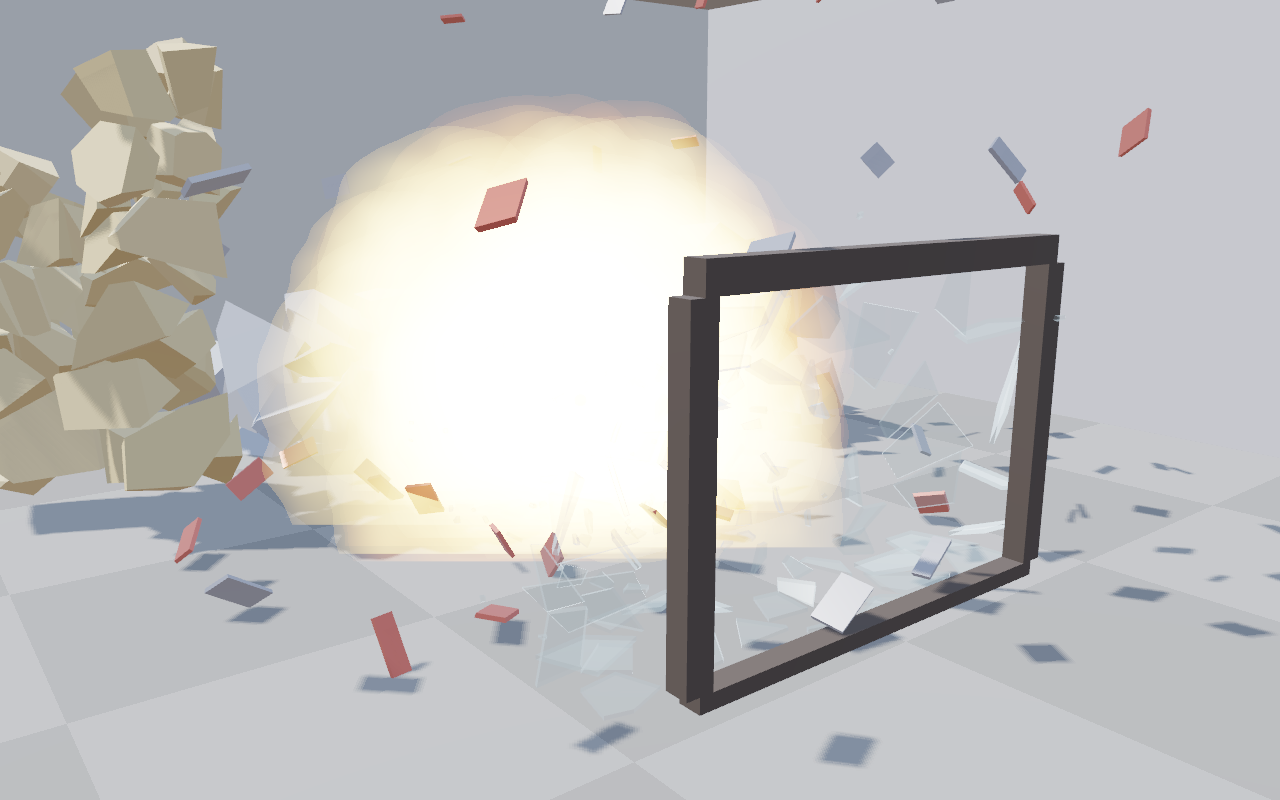
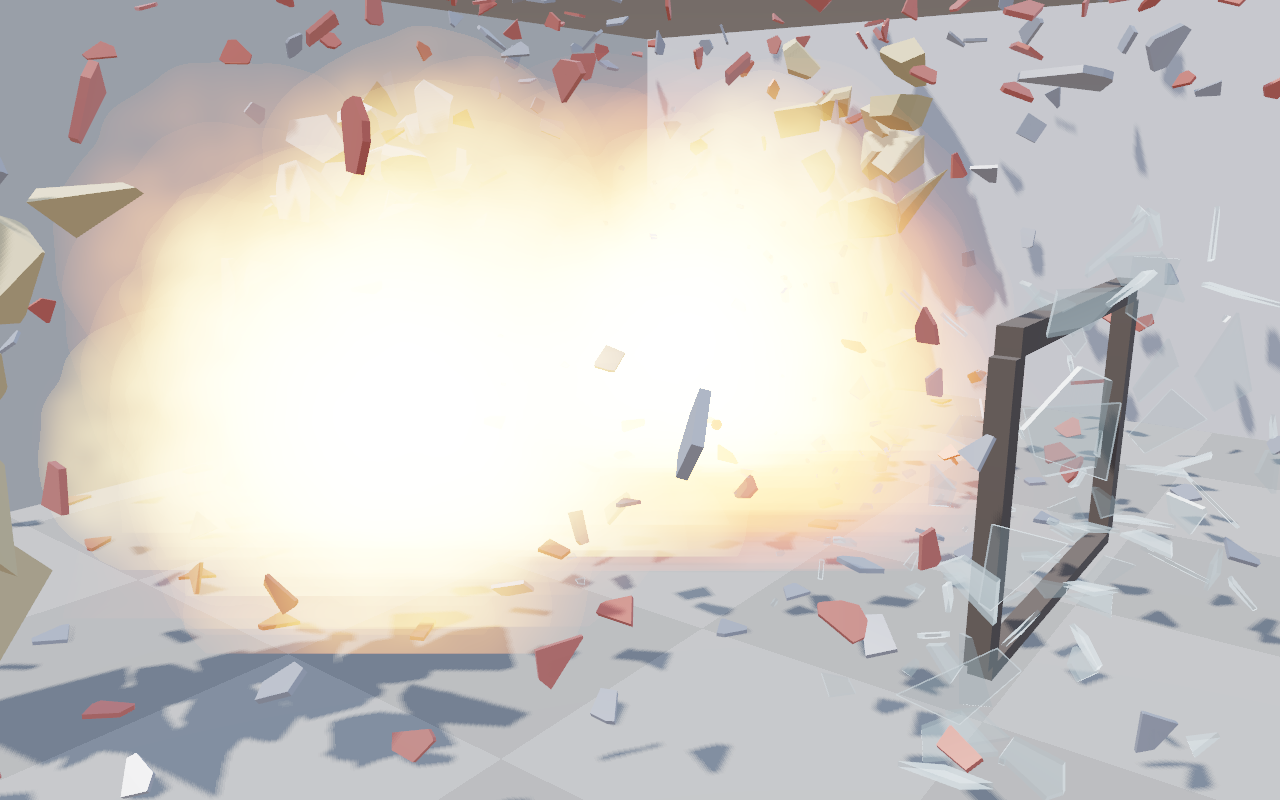
bulletbarrel: 3-barrel chain reaction, Voronoi shell shards, camera fix
Refine the bullet -> barrel demo: three hollow explosive barrels with a
staggered fuse-based chain explosion instead of one. The barrel walls now
shatter into irregular Voronoi-style metal shards (cylinderShellVoronoi in
shellfrac.h, built as flat tangent-plane prisms for robust mass properties)
at ~2x the piece count.

Also fix the orbiting camera flying through the +x room wall right before
the barrel hit: the eye started just outside that wall slab and the orbit
swept it down through it, filling the view with grey. Reversed the orbit so
it pans away from the wall instead of into it.

Covered by the explosion suite (Voronoi shell tiles the wall with valid
mass props and varied shard shapes).

Claude-Session: https://claude.ai/code/session_013xizM315Qa6aUuQZdRZxED

diff --git a/demos/bulletbarrel3d.cpp b/demos/bulletbarrel3d.cpp
@@ -36,7 +36,8 @@ static gfx::Mesh makeCylinder(int seg = 34) {
 }
 
 struct Frag { std::unique_ptr<RigidBody> body; std::unique_ptr<CollisionConvex> hull; gfx::Mesh mesh; float rad; glm::vec3 colour;
-              int kind; bool active = false, locked = false; int pcalm = 0; };   // kind: 0 glass, 1 object, 2 barrel
+              int kind; int barrelId = -1; bool active = false, locked = false; int pcalm = 0; };   // kind: 0 glass, 1 object, 2 barrel
+struct Barrel { glm::vec3 c; bool exploded = false; double fuseT = -1; };        // fuseT: scheduled chain-explosion time
 
 struct Collider : ContactGenerator {
     std::vector<Frag>* fr; const CollisionPlane* walls; int nWalls; real fri, res;
@@ -117,28 +118,33 @@ int main(int argc, char** argv) {
             frags.push_back(std::move(f)); cells.push_back(std::move(cell));
         }
     };
-    // barrel (kind 2) + surrounding objects (kind 1)
-    const glm::vec3 barrelC(0.1f, 0.7f, 1.4f); const float barrelR = 0.42f, barrelHh = 0.7f;
-    {   // hollow barrel: its thin wall + end caps dice into small curved metal shards
-        unsigned bs = 55u; auto br = [&]() { bs = bs * 1103515245u + 12345u; return (float)(((bs >> 16) & 0x7fff) / 32767.0); };
-        for (auto& cell : cylinderShellFracture(barrelR, barrelHh, 0.03, 15, 5, true, 55u)) {
-            Frag f; f.kind = 2; f.rad = 0; for (auto& v : cell.verts) f.rad = std::max(f.rad, (float)v.magnitude());
+    // three hollow explosive barrels (kind 2) — each wall dices into small metal shards
+    const float barrelR = 0.42f, barrelHh = 0.7f; std::vector<Barrel> barrels;
+    auto addBarrel = [&](glm::vec3 c, unsigned seed) {
+        int bid = (int)barrels.size(); barrels.push_back({c, false, -1});
+        unsigned bs = seed; auto br = [&]() { bs = bs * 1103515245u + 12345u; return (float)(((bs >> 16) & 0x7fff) / 32767.0); };
+        for (auto& cell : cylinderShellVoronoi(barrelR, barrelHh, 0.03, 18, 6, seed)) {   // irregular Voronoi-style metal shards (~2× finer)
+            Frag f; f.kind = 2; f.barrelId = bid; f.rad = 0; for (auto& v : cell.verts) f.rad = std::max(f.rad, (float)v.magnitude());
             f.body = std::make_unique<RigidBody>(); f.body->setMass(std::max(1e-3, cell.volume * 5.0));
             Matrix3 I; for (int k = 0; k < 9; k++) I.data[k] = cell.inertiaUnit.data[k] * 5.0; for (int k : {0, 4, 8}) I.data[k] = std::max(I.data[k], (real)1e-6); f.body->setInertiaTensor(I);
-            f.body->setPosition(Vector3(barrelC.x + cell.site.x, barrelC.y + cell.site.y, barrelC.z + cell.site.z));
+            f.body->setPosition(Vector3(c.x + cell.site.x, c.y + cell.site.y, c.z + cell.site.z));
             f.body->setAcceleration(0, -9.81, 0); f.body->setDamping(0.55, 0.5); f.body->calculateDerivedData(); f.body->setAwake(false);
             f.hull = std::make_unique<CollisionConvex>(); f.hull->body = f.body.get(); f.hull->vertices = cell.verts;
-            f.colour = (br() < 0.55f) ? glm::vec3(0.50, 0.17, 0.14) + glm::vec3((br() - 0.5f) * 0.06f)    // red paint
-                                      : glm::vec3(0.34, 0.34, 0.37) + glm::vec3((br() - 0.5f) * 0.05f);   // bare torn metal
+            f.colour = (br() < 0.55f) ? glm::vec3(0.50, 0.17, 0.14) + glm::vec3((br() - 0.5f) * 0.06f)
+                                      : glm::vec3(0.34, 0.34, 0.37) + glm::vec3((br() - 0.5f) * 0.05f);
             frags.push_back(std::move(f)); cells.push_back(std::move(cell));
         }
-    }
+    };
+    addBarrel(glm::vec3(0.1f, 0.7f, 1.4f), 55u);        // the bullet's target
+    addBarrel(glm::vec3(-1.95f, 0.7f, 2.9f), 61u);
+    addBarrel(glm::vec3(2.05f, 0.7f, 3.0f), 67u);
+    // surrounding objects (kind 1), clear of the barrels
     glm::vec3 grey(0.52, 0.51, 0.49), sand(0.60, 0.49, 0.31), slate(0.42, 0.43, 0.47);
-    addChunks(Vector3(-1.9, 0.6, 2.1),  Vector3(0.60, 0.60, 0.60), 26, 2.4, grey, 1, 13u);
-    addChunks(Vector3(1.9, 1.15, 2.4),  Vector3(0.36, 1.15, 0.36), 22, 2.2, sand, 1, 21u);
-    addChunks(Vector3(-1.3, 0.55, 3.5), Vector3(0.55, 0.55, 0.55), 22, 2.3, grey, 1, 29u);
-    addChunks(Vector3(0.5, 0.4, 3.7),   Vector3(1.00, 0.40, 0.65), 28, 2.3, slate, 1, 41u);
-    addChunks(Vector3(2.9, 1.05, 3.3),  Vector3(0.34, 1.05, 0.34), 20, 2.2, sand, 1, 47u);
+    addChunks(Vector3(-3.6, 1.15, 2.4), Vector3(0.36, 1.15, 0.36), 20, 2.2, sand, 1, 13u);
+    addChunks(Vector3(0.1, 0.55, 3.9),  Vector3(0.55, 0.55, 0.55), 22, 2.3, grey, 1, 21u);
+    addChunks(Vector3(3.7, 1.1, 2.5),   Vector3(0.34, 1.1, 0.34), 20, 2.2, sand, 1, 29u);
+    addChunks(Vector3(-0.7, 0.4, 4.5),  Vector3(1.00, 0.40, 0.65), 26, 2.3, slate, 1, 41u);
+    addChunks(Vector3(-3.4, 0.55, 4.2), Vector3(0.55, 0.55, 0.55), 20, 2.3, grey, 1, 47u);
 
     World world(24000);
     for (auto& f : frags) world.getRigidBodies().push_back(f.body.get());
@@ -149,7 +155,8 @@ int main(int argc, char** argv) {
     std::vector<Puff> puffs; unsigned pcs = 91u; auto cr = [&]() { pcs = pcs * 1103515245u + 12345u; return (float)(((pcs >> 16) & 0x7fff) / 32767.0); };
     glm::vec3 bpos(impact.x, impact.y, -3.0f); glm::vec3 bvel(0, 0, 16.0f); const float bR = 0.05f;
     bool glassBroke = false, boom = false; double simT = 0, boomT = -1;
-    const float glassZ = paneC.z, barrelHitZ = barrelC.z - barrelR + 0.14f;   // detonate once slightly inside the drum
+    const float glassZ = paneC.z, barrelHitZ = barrels[0].c.z - barrelR + 0.14f;   // detonate once slightly inside the drum
+    const float chainRadius = 3.6f;   // an exploding barrel ignites unexploded barrels within this range
     // slow-motion "bullet time" (ramps back to real speed after the blast) + spiral trail
     double timeScale = 0.16; float bulletDist = 0, spinPhase = 0; const float trailR = 0.04f, spinFreq = 17.0f;   // helix ≈ bullet radius
     std::vector<glm::vec4> trail;   // xyz = corkscrew point, w = brightness
@@ -160,29 +167,38 @@ int main(int argc, char** argv) {
             Vector3 p = f.body->getPosition(); real du = p.x - impact.x, dv = p.y - impact.y, dist = std::sqrt(du * du + dv * dv);
             Vector3 rad = dist > 1e-4 ? Vector3(du, dv, 0) * (1.0 / dist) : Vector3(0, 1, 0);
             Vector3 v = Vector3(0, 0, 1) * (2.6 / (dist + 0.18)) + rad * (1.0 / (dist + 0.25)) + Vector3(rr() - 0.5, rr() - 0.5, rr() - 0.5) * 0.6;
-            f.active = true; f.body->setAwake(true); f.body->setVelocity(v);
+            f.active = true; f.body->setAwake(true); f.body->setCanSleep(false); f.body->setVelocity(v);
             f.body->setRotation(Vector3(rr() - 0.5, rr() - 0.5, rr() - 0.5) * (4.0 + 8.0 / (dist + 0.3)));
         }
     };
-    auto detonate = [&]() {
-        unsigned st = 9u; auto rr = [&]() { st = st * 1103515245u + 12345u; return (real)(((st >> 16) & 0x7fff) / 32767.0); };
-        Vector3 bc(barrelC.x, barrelC.y, barrelC.z);
+    auto explodeBarrel = [&](int bi) {
+        if (barrels[bi].exploded) return;
+        barrels[bi].exploded = true; if (boomT < 0) { boomT = simT; boom = true; }
+        unsigned st = 9u + bi * 7; auto rr = [&]() { st = st * 1103515245u + 12345u; return (real)(((st >> 16) & 0x7fff) / 32767.0); };
+        glm::vec3 bcg = barrels[bi].c; Vector3 bc(bcg.x, bcg.y, bcg.z);
         for (auto& f : frags) {
+            if (f.kind == 2 && f.barrelId != bi && !barrels[f.barrelId].exploded) continue;   // another intact barrel — leave it whole
             Vector3 dr = f.body->getPosition() - bc; real dist = dr.magnitude();
+            if (dist > 4.2 && !f.active) continue;                                             // out of range and not already flying
             Vector3 dir = dist > 1e-6 ? dr * (1.0 / dist) : Vector3(0, 1, 0);
             real speed = (f.kind == 2 ? 13.0 : 11.0) / (dist + 0.5);
             Vector3 blast = dir * speed + Vector3(0, 0.45 * speed + 1.5, 0);
-            if (f.kind == 0) { f.body->setVelocity(f.body->getVelocity() + blast * 0.5); }   // push falling glass
-            else { f.active = true; f.body->setAwake(true); f.body->setVelocity(blast + Vector3(rr() - 0.5, rr() - 0.5, rr() - 0.5) * 2.0);
-                   f.body->setRotation(Vector3(rr() - 0.5, rr() - 0.5, rr() - 0.5) * 16.0); }
+            bool mine = (f.kind == 2 && f.barrelId == bi);
+            if (f.active) f.body->setVelocity(f.body->getVelocity() + blast * (mine ? 1.0 : 0.7));   // push already-flying debris
+            else if (mine || f.kind != 2) { f.active = true; f.body->setAwake(true); f.body->setCanSleep(false);   // shrapnel / objects & glass in range; no auto-sleep (else it freezes mid-air at its apex)
+                f.body->setVelocity(blast + Vector3(rr() - 0.5, rr() - 0.5, rr() - 0.5) * 2.0);
+                f.body->setRotation(Vector3(rr() - 0.5, rr() - 0.5, rr() - 0.5) * 16.0); }
         }
         auto rdir = [&]() { glm::vec3 d(cr() - 0.5f, cr() - 0.5f, cr() - 0.5f); float m = glm::length(d); return m > 1e-4f ? d / m : glm::vec3(0, 1, 0); };
-        for (int i = 0; i < 240; i++) { Puff q; q.fire = true; q.p = barrelC + rdir() * (0.2f + cr() * 1.3f);
+        for (int i = 0; i < 230; i++) { Puff q; q.fire = true; q.p = bcg + rdir() * (0.2f + cr() * 1.3f);
             q.v = rdir() * (4.0f + cr() * 11.0f) + glm::vec3(0, 2.5f + cr() * 3.5f, 0);
             q.life = q.life0 = 0.32f + cr() * 0.7f; q.size = 0.22f + cr() * 0.55f; q.grow = 1.8f + cr() * 1.6f; q.buoy = 4.6f + cr() * 3.0f; puffs.push_back(q); }
-        for (int i = 0; i < 200; i++) { Puff q; q.fire = false; q.p = barrelC + rdir() * (0.15f + cr() * 1.2f);
+        for (int i = 0; i < 190; i++) { Puff q; q.fire = false; q.p = bcg + rdir() * (0.15f + cr() * 1.2f);
             q.v = rdir() * (1.4f + cr() * 3.5f) + glm::vec3(0, 2.4f + cr() * 2.0f, 0);
             q.life = q.life0 = 1.6f + cr() * 2.4f; q.size = 0.24f + cr() * 0.45f; q.grow = 0.9f + cr() * 0.7f; q.buoy = 2.0f + cr() * 1.4f; puffs.push_back(q); }
+        for (int j = 0; j < (int)barrels.size(); j++) if (j != bi && !barrels[j].exploded && barrels[j].fuseT < 0) {   // chain: light nearby barrels
+            float d = glm::length(barrels[j].c - bcg); if (d < chainRadius) barrels[j].fuseT = simT + 0.12 + d * 0.05;
+        }
     };
     auto stepPhysics = [&]() {
         if (boom) timeScale = std::min(1.0, timeScale + 0.035);              // ramp back to real speed after the blast
@@ -196,18 +212,22 @@ int main(int argc, char** argv) {
             trail.push_back(glm::vec4(bpos - h * trailR, 1.0f));
             trail.push_back(glm::vec4(bpos, 0.7f));
             if (!glassBroke && bpos.z >= glassZ) { breakGlass(); glassBroke = true; bvel *= 0.85f; }
-            if (bpos.z >= barrelHitZ) { detonate(); boom = true; boomT = simT; }
+            if (bpos.z >= barrelHitZ) explodeBarrel(0);                       // bullet ignites the first barrel
         }
+        for (int j = 0; j < (int)barrels.size(); j++)                         // fuses fire the chain
+            if (!barrels[j].exploded && barrels[j].fuseT >= 0 && simT >= barrels[j].fuseT) explodeBarrel(j);
         float tfade = boom ? 0.90f : 0.996f;                                // trail lingers in flight, burns off in the blast
         for (auto& t : trail) t.w *= tfade;
         trail.erase(std::remove_if(trail.begin(), trail.end(), [](const glm::vec4& t) { return t.w < 0.04f; }), trail.end());
         if (trail.size() > 1500) trail.erase(trail.begin(), trail.begin() + (trail.size() - 1500));
-        for (auto& f : frags) {                                                 // settle: bleed slow, lock at rest
+        for (auto& f : frags) {                                                 // settle: only bleed/lock NEAR the ground so airborne debris falls freely (never freezes mid-air)
             if (!f.active || f.locked) { if (f.locked) { f.body->setVelocity(Vector3()); f.body->setRotation(Vector3()); } continue; }
+            if (f.body->getPosition().y >= 1.9) { f.pcalm = 0; continue; }       // still in the air — let gravity bring it down
             real v = f.body->getVelocity().magnitude(), w = f.body->getRotation().magnitude();
             if (v < 0.55) { f.body->setVelocity(f.body->getVelocity() * 0.83); f.body->setRotation(f.body->getRotation() * 0.72); }
             if (v < 0.32 && w < 0.85) f.pcalm++; else f.pcalm = 0;
-            if (f.pcalm > 14 || (boom && simT - boomT > 3.5)) { f.body->setVelocity(Vector3()); f.body->setRotation(Vector3()); f.body->setAcceleration(0, 0, 0);
+            if (f.pcalm > 14 || (boom && simT - boomT > 4.4)) {
+                f.body->setVelocity(Vector3()); f.body->setRotation(Vector3()); f.body->setAcceleration(0, 0, 0);
                 f.body->setInverseMass(0); Matrix3 bi; bi.setInertiaTensorCoeffs(1e12, 1e12, 1e12); f.body->setInertiaTensor(bi); f.body->calculateDerivedData(); f.body->setAwake(false); f.locked = true; }
         }
         float fdt = (float)simDt;
@@ -225,7 +245,7 @@ int main(int argc, char** argv) {
     gfx::Mesh pane; { std::vector<float> v = {-PW, -PH, 0, 0, 0, -1, PW, -PH, 0, 0, 0, -1, PW, PH, 0, 0, 0, -1, -PW, PH, 0, 0, 0, -1};
         std::vector<unsigned> idx = {0, 1, 2, 0, 2, 3}; pane.upload(v, idx); }
 
-    gfx::OrbitCamera cam; cam.target = glm::vec3(0.0, 1.0, 0.5); cam.dist = 7.6f; cam.yaw = 2.32f; cam.pitch = 0.22f;
+    gfx::OrbitCamera cam; cam.target = glm::vec3(0.1, 1.0, 2.0); cam.dist = 9.6f; cam.yaw = 2.38f; cam.pitch = 0.24f;
     glm::mat4 proj = glm::perspective(glm::radians(43.0f), (float)W / H, 0.05f, 100.0f);
     glfwSetWindowUserPointer(app.win, &cam);
     glfwSetScrollCallback(app.win, [](GLFWwindow* w, double, double dy) { auto* c = (gfx::OrbitCamera*)glfwGetWindowUserPointer(w); c->dist *= (dy > 0 ? 0.9f : 1.1f); });
@@ -290,7 +310,7 @@ void main(){ vec3 N=normalize(vN); vec3 V=normalize(uCam-vW); if(dot(N,V)<0.0) N
         r.setLightForScene(glm::vec3(0, 1.4, 0.8), 8.0f);
         r.beginShadow();
         for (auto& f : frags) if (f.kind != 0 && (f.active || f.kind == 1)) r.shadowDraw(f.mesh, glmFromPhys(f.body->getTransform()));
-        if (!boom) r.shadowDraw(cyl, glm::scale(glm::translate(glm::mat4(1), barrelC), glm::vec3(barrelR, barrelHh * 2, barrelR)));
+        for (auto& b : barrels) if (!b.exploded) r.shadowDraw(cyl, glm::scale(glm::translate(glm::mat4(1), b.c), glm::vec3(barrelR, barrelHh * 2, barrelR)));
         r.endShadow();
         r.beginScene(cam.view(), proj, cam.eye());
         glClearColor(0.16f, 0.17f, 0.20f, 1.0f); glClear(GL_COLOR_BUFFER_BIT);
@@ -307,10 +327,10 @@ void main(){ vec3 N=normalize(vN); vec3 V=normalize(uCam-vW); if(dot(N,V)<0.0) N
             float rough = f.kind == 2 ? 0.42f : 0.8f, metal = f.kind == 2 ? 0.65f : 0.0f;
             r.drawPBR(r.pSolid, f.mesh, glmFromPhys(f.body->getTransform()), f.colour, rough, metal);
         }
-        if (!boom) {   // an open-top hollow drum: red wall, band, dark recessed interior
-            r.drawPBR(r.pSolid, cyl, glm::scale(glm::translate(glm::mat4(1), barrelC), glm::vec3(barrelR, barrelHh * 2, barrelR)), glm::vec3(0.55, 0.15, 0.11), 0.45f, 0.4f);
-            r.drawPBR(r.pSolid, cyl, glm::scale(glm::translate(glm::mat4(1), barrelC + glm::vec3(0, barrelHh * 0.4f, 0)), glm::vec3(barrelR * 1.02f, 0.05f, barrelR * 1.02f)), glm::vec3(0.10, 0.09, 0.09), 0.6f, 0.3f);
-            r.drawPBR(r.pSolid, cyl, glm::scale(glm::translate(glm::mat4(1), barrelC + glm::vec3(0, barrelHh - 0.03f, 0)), glm::vec3(barrelR * 0.90f, 0.05f, barrelR * 0.90f)), glm::vec3(0.08, 0.07, 0.07), 0.85f, 0.0f); }   // hollow opening
+        for (auto& b : barrels) if (!b.exploded) {   // each intact barrel: an open-top hollow drum (red wall, band, dark recessed interior)
+            r.drawPBR(r.pSolid, cyl, glm::scale(glm::translate(glm::mat4(1), b.c), glm::vec3(barrelR, barrelHh * 2, barrelR)), glm::vec3(0.55, 0.15, 0.11), 0.45f, 0.4f);
+            r.drawPBR(r.pSolid, cyl, glm::scale(glm::translate(glm::mat4(1), b.c + glm::vec3(0, barrelHh * 0.4f, 0)), glm::vec3(barrelR * 1.02f, 0.05f, barrelR * 1.02f)), glm::vec3(0.10, 0.09, 0.09), 0.6f, 0.3f);
+            r.drawPBR(r.pSolid, cyl, glm::scale(glm::translate(glm::mat4(1), b.c + glm::vec3(0, barrelHh - 0.03f, 0)), glm::vec3(barrelR * 0.90f, 0.05f, barrelR * 0.90f)), glm::vec3(0.08, 0.07, 0.07), 0.85f, 0.0f); }   // hollow opening
         r.drawPBR(r.pSolid, sphere, glm::scale(glm::translate(glm::mat4(1), bpos), glm::vec3(bR)), glm::vec3(0.05, 0.05, 0.06), 0.3f, 0.8f);   // bullet
 
         drawPuffs(eye, R, U);
@@ -338,7 +358,9 @@ void main(){ vec3 N=normalize(vN); vec3 V=normalize(uCam-vW); if(dot(N,V)<0.0) N
         r.endScene();
     };
 
-    if (video) { for (int f = 0; f < frames; f++) { cam.yaw += 0.45f / frames; renderFrame();
+    // orbit AWAY from the +x wall the camera starts just outside of (increasing yaw would
+    // sweep the eye down through that wall slab and briefly fill the view with it)
+    if (video) { for (int f = 0; f < frames; f++) { cam.yaw -= 0.45f / frames; renderFrame();
             char p[512]; std::snprintf(p, sizeof(p), "%s_%04d.png", video, f); r.screenshot(p); for (int s = 0; s < 2; s++) stepPhysics(); }
         std::printf("wrote %d frames (%zu frags)\n", frames, frags.size()); return 0; }
     if (headless) { for (int i = 0; i < frames * 2; i++) stepPhysics(); renderFrame(); r.screenshot(shot); std::printf("wrote %s\n", shot); return 0; }

diff --git a/include/phys/shellfrac.h b/include/phys/shellfrac.h
@@ -6,6 +6,7 @@
 // so they collide and tumble like real shrapnel.
 #pragma once
 #include "voronoi.h"
+#include "glassfrac.h"   // V2 + gClipHalf (2-D half-plane clipping)
 #include <vector>
 #include <array>
 #include <cmath>
@@ -62,6 +63,75 @@ inline std::vector<ConvexCell> cylinderShellFracture(real R, real Hh, real wt, i
             std::array<Vector3, 8> p = {P(a0, y0, rh), P(a1, y0, rh), P(a1, y0, ro), P(a0, y0, ro),
                                         P(a0, y1, rh), P(a1, y1, rh), P(a1, y1, ro), P(a0, y1, ro)};
             ConvexCell c; if (buildHex(p, c)) cells.push_back(std::move(c)); }
+    }
+    return cells;
+}
+
+// map a 2-D wall polygon (in arc-length s × height v) onto the cylinder and extrude it
+// through the wall as a shell shard (a ConvexCell, recentred about its COM). The polygon
+// is placed on the tangent plane at the cell centre (each shard spans a small arc, so
+// the flat approximation is negligible) — planar faces keep the mass solve robust.
+inline bool buildShellPiece(const std::vector<V2>& poly, real R, real ri, real ro, ConvexCell& cell) {
+    int N = (int)poly.size(); if (N < 3) return false;
+    real sc = 0, vc = 0; for (auto& p : poly) { sc += p.u; vc += p.v; } sc /= N; vc /= N;
+    real uc = sc / R; Vector3 Pc(R * std::cos(uc), vc, R * std::sin(uc));
+    Vector3 tang(-std::sin(uc), 0, std::cos(uc)), up(0, 1, 0), nrm(std::cos(uc), 0, std::sin(uc));   // local frame on the wall
+    real hw = (ro - ri) * 0.5;
+    cell = ConvexCell();
+    for (auto& p : poly) { Vector3 b = Pc + tang * (p.u - sc) + up * (p.v - vc); cell.verts.push_back(b + nrm * hw); }   // outer ring 0..N-1
+    for (auto& p : poly) { Vector3 b = Pc + tang * (p.u - sc) + up * (p.v - vc); cell.verts.push_back(b - nrm * hw); }   // inner ring N..2N-1
+    for (int i = 1; i < N - 1; i++) cell.tris.push_back({0, i, i + 1});                          // outer face
+    for (int i = 1; i < N - 1; i++) cell.tris.push_back({N, N + i, N + i + 1});                  // inner face
+    for (int i = 0; i < N; i++) { int j = (i + 1) % N; cell.tris.push_back({i, j, N + j}); cell.tris.push_back({i, N + j, N + i}); }   // sides
+    Vector3 mc(0, 0, 0); for (auto& v : cell.verts) mc += v; mc = mc * (1.0 / cell.verts.size());
+    cell.triN.assign(cell.tris.size(), Vector3());
+    for (size_t ti = 0; ti < cell.tris.size(); ti++) {
+        auto& tr = cell.tris[ti];
+        Vector3 a = cell.verts[tr[0]], b = cell.verts[tr[1]], c = cell.verts[tr[2]];
+        Vector3 gn = (b - a) % (c - a); Vector3 tc = (a + b + c) * (1.0 / 3.0);
+        if (gn * (tc - mc) < 0) { std::swap(tr[1], tr[2]); gn = gn * -1; }
+        real l = gn.magnitude(); cell.triN[ti] = l > 1e-12 ? gn * (1.0 / l) : Vector3(0, 1, 0);
+    }
+    cellMassProps(cell);
+    if (cell.volume < 1e-11) return false;
+    cell.site = cell.com;
+    for (auto& v : cell.verts) v -= cell.com;
+    return true;
+}
+
+// Voronoi-style shell fracture: shatter a hollow cylinder wall into IRREGULAR convex
+// metal shards. Seeds are a jittered nCirc×nRows grid on the unrolled wall (arc-length
+// s × height v) — jittered for irregular shapes but size-bounded so every shard spans a
+// small arc; a 2-D Voronoi is computed there with s PERIODIC (seeds replicated at s ± 2πR
+// so cells tile seamlessly across the seam), and each cell is mapped back onto the
+// cylinder and extruded through the wall thickness.
+inline std::vector<ConvexCell> cylinderShellVoronoi(real R, real Hh, real wt, int nCirc, int nRows, unsigned seed = 7u) {
+    unsigned s = seed ? seed : 1u; auto rr = [&]() { s = s * 1103515245u + 12345u; return (real)(((s >> 16) & 0x7fff) / 32767.0); };
+    const real circ = 2 * M_PI * R, ri = R - wt * 0.5, ro = R + wt * 0.5, hc = circ * 0.5;
+    std::vector<V2> seeds;
+    for (int cj = 0; cj < nCirc; cj++) for (int ci = 0; ci < nRows; ci++)
+        seeds.push_back({(cj + 0.5 + (rr() - 0.5) * 0.8) / nCirc * circ, -Hh + (ci + 0.5 + (rr() - 0.5) * 0.8) / nRows * 2 * Hh});
+    int nSeeds = (int)seeds.size();
+    std::vector<ConvexCell> cells;
+    for (int i = 0; i < nSeeds; i++) {
+        V2 si = seeds[i];
+        std::vector<V2> poly = {{si.u - hc, -Hh}, {si.u + hc, -Hh}, {si.u + hc, Hh}, {si.u - hc, Hh}};   // ≤ half-circumference cell
+        for (int j = 0; j < nSeeds; j++) for (int rep = -1; rep <= 1; rep++) {
+            if (j == i && rep == 0) continue;
+            real su = seeds[j].u + rep * circ, sv = seeds[j].v;
+            if (std::fabs(su - si.u) > hc + 1e-3) continue;
+            real nu = su - si.u, nv = sv - si.v, d = 0.5 * (nu * (si.u + su) + nv * (si.v + sv));         // perpendicular bisector, keep si side
+            poly = gClipHalf(poly, nu, nv, d);
+        }
+        poly = gClipHalf(poly, 0, 1, Hh); poly = gClipHalf(poly, 0, -1, Hh);
+        if (poly.size() < 3) continue;
+        real area2D = 0; for (int k = 0; k < (int)poly.size(); k++) { auto& p0 = poly[k]; auto& p1 = poly[(k + 1) % poly.size()]; area2D += p0.u * p1.v - p1.u * p0.v; }
+        area2D = std::fabs(area2D) * 0.5; if (area2D < 1e-4) continue;                                // drop degenerate slivers
+        ConvexCell cell; if (!buildShellPiece(poly, R, ri, ro, cell)) continue;
+        real ev = area2D * wt;                                                                        // a shell piece's volume ≈ (unrolled area)·thickness
+        if (cell.volume < 0.6 * ev || cell.volume > 1.5 * ev) continue;                              // reject any piece whose mass-solve went bad
+        if (cell.inertiaUnit.data[0] <= 0 || cell.inertiaUnit.data[4] <= 0 || cell.inertiaUnit.data[8] <= 0) continue;
+        cells.push_back(std::move(cell));
     }
     return cells;
 }

diff --git a/tests/test_explosion.cpp b/tests/test_explosion.cpp
@@ -149,5 +149,20 @@ int main() {
         CHECK(cylinderShellFracture(R, Hh, wt, nc, nr, true, 7u).size() == size_t(nc * nr + 2 * nc));   // + end caps
     }
 
+    // H) Voronoi-style shell fracture: IRREGULAR convex shards that still tile the wall.
+    {
+        real R = 0.5, Hh = 0.7, wt = 0.04;
+        auto sh = cylinderShellVoronoi(R, Hh, wt, 13, 4, 7u);
+        CHECK(sh.size() > 30);                                        // ~52 irregular shards
+        real vol = 0; int bad = 0, mn = 1 << 30, mx = 0;
+        for (auto& c : sh) { vol += c.volume;
+            if (!(c.inertiaUnit.data[0] > 0 && c.inertiaUnit.data[4] > 0 && c.inertiaUnit.data[8] > 0)) bad++;
+            mn = std::min(mn, (int)c.verts.size()); mx = std::max(mx, (int)c.verts.size()); }
+        real shell = M_PI * ((R + wt / 2) * (R + wt / 2) - (R - wt / 2) * (R - wt / 2)) * (2 * Hh);
+        CHECK(vol / shell > 0.95 && vol / shell < 1.05);             // tiles the shell
+        CHECK(bad == 0);
+        CHECK(mx > mn);                                              // varied shapes (not a uniform grid)
+    }
+
     return test::report("explosion");
 }